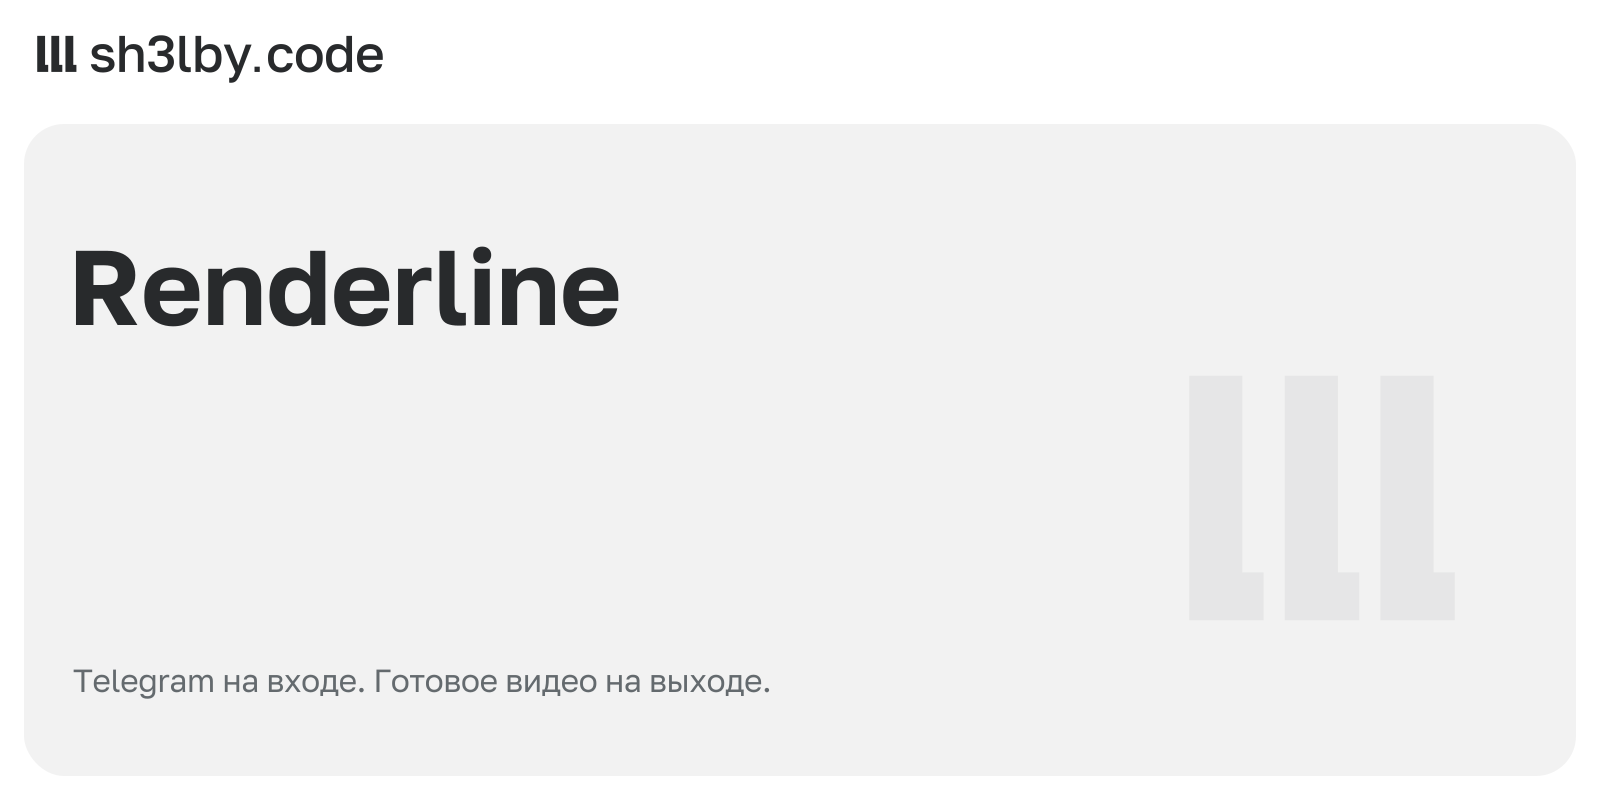
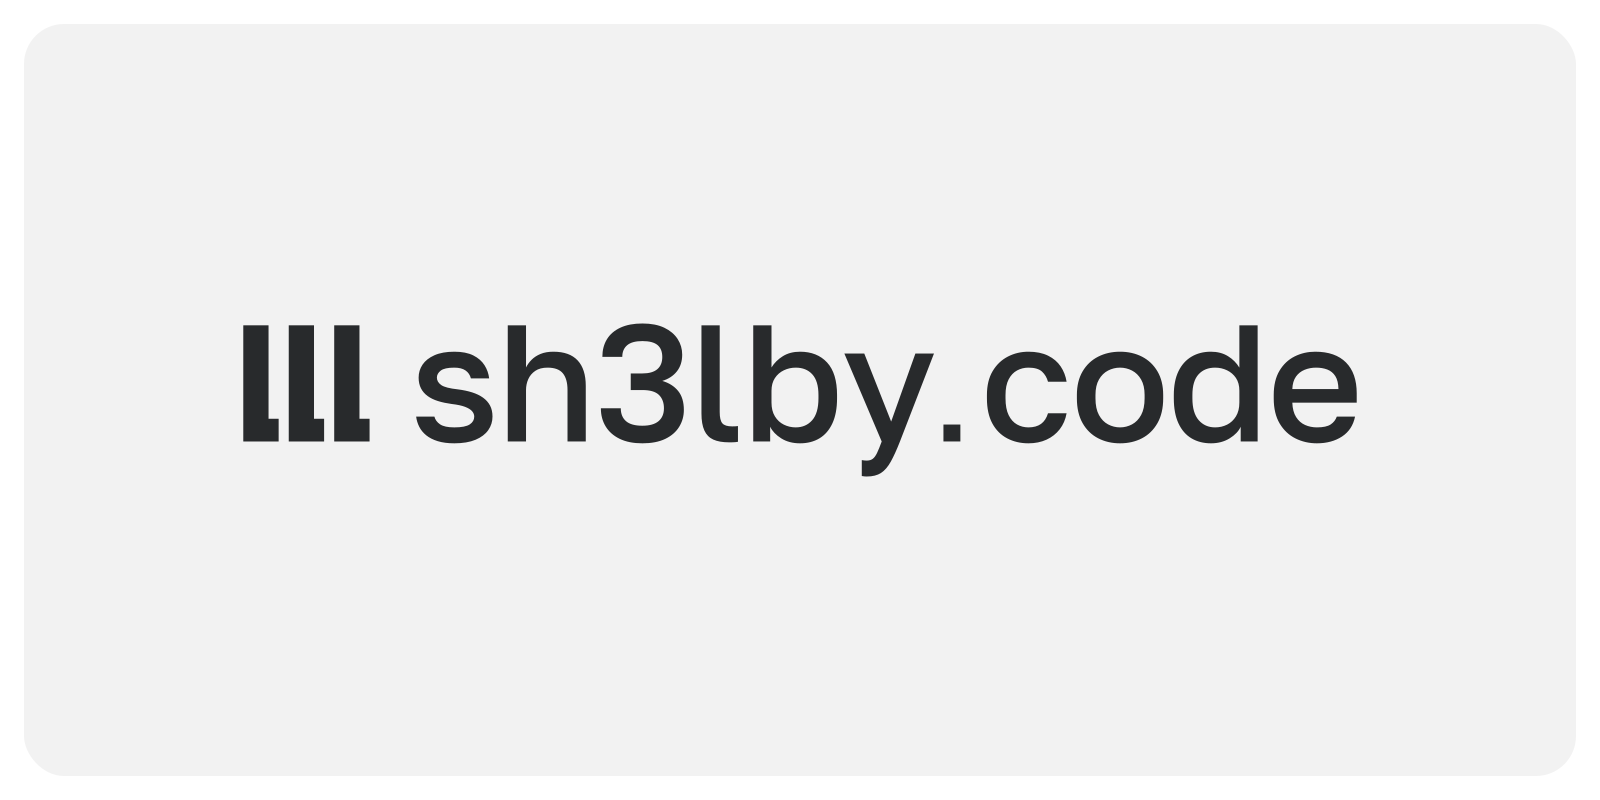
docs: use neutral_banner generator without customization

Changed region(s): [[0.0312, 0.3125, 0.875, 0.5938], [0.0312, 0.8438, 0.5, 0.875], [0.0, 0.0312, 0.25, 0.0938]]

diff --git a/README.md b/README.md
@@ -1,7 +1,7 @@
 # Renderline
 
 <!-- portfolio-card:start -->
-[![Renderline — Telegram на входе. Готовое видео на выходе.](docs/portfolio/card.png)](docs/portfolio/card.svg)
+[![sh3lby.code — нейтральная обложка](docs/portfolio/card.png)](docs/portfolio/card.svg)
 <!-- portfolio-card:end -->
 
 Describe a vertical video in Telegram, get it rendered. Users upload clips, build a timeline of segments (`asset + in + out` in seconds), add subtitle lines, background music, sound effects and text overlays; a worker assembles the result with FFmpeg and sends it back. No video editor involved.
